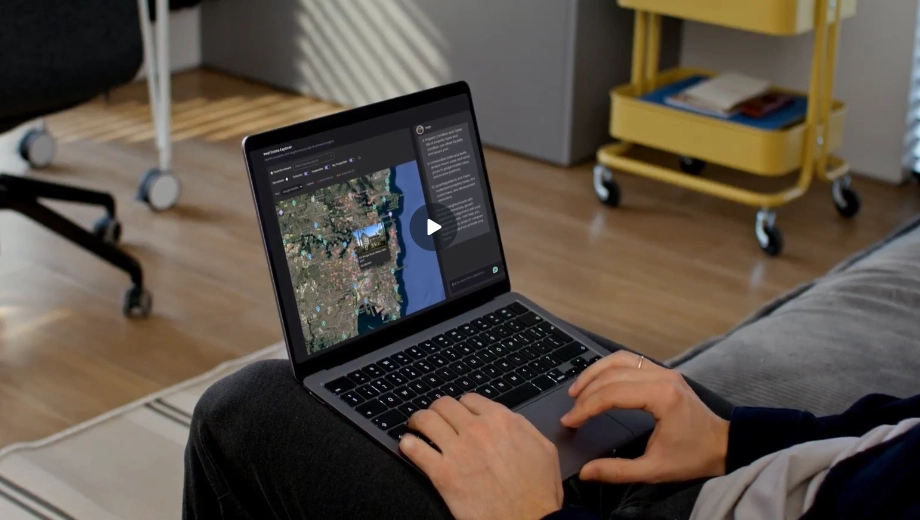
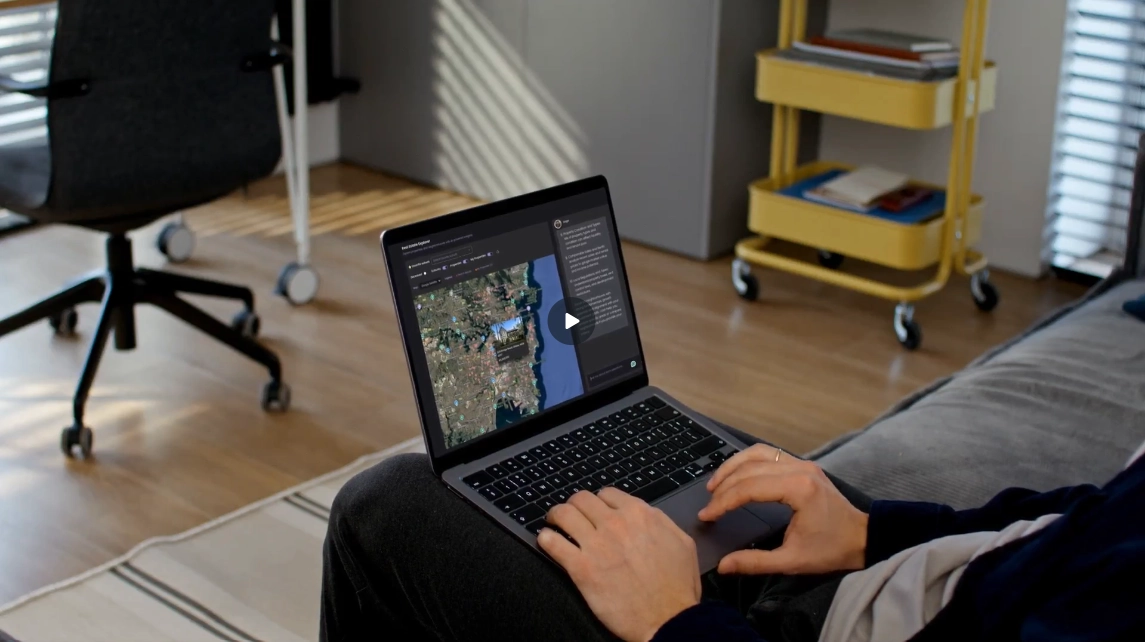
adjust video dimensions and loading attributes in index.html; update css for opacity and positioning tweaks; replace thumbnail images for better quality

diff --git a/index.html b/index.html
@@ -388,13 +388,16 @@
             playsinline
             poster="./assets/img/browsing-the-app-thumbnail-one.webp"
             preload="metadata"
-            width="920px"
-            height="520px"
+            width="919.97px"
+            height="509.16px"
+            loading="lazy"
           >
             <!-- Optimized video source -->
             <source
               src="./assets/videos/browsing-the-app-demo-one.mp4"
               type="video/mp4"
+              width="919.97px"
+              height="509.16px"
             />
           </video>
 
@@ -645,11 +648,16 @@
             playsinline
             poster="./assets/img/browsing-the-app-thumbnail-two.webp"
             preload="metadata"
+            width="999.98px"
+            height="553.44px"
+            loading="lazy"
           >
             <!-- Optimized video source -->
             <source
               src="./assets/videos/browsing-the-app-demo-two.mp4"
               type="video/mp4"
+              width="999.98px"
+              height="553.44px"
             />
           </video>
 

diff --git a/assets/css/home-page.css b/assets/css/home-page.css
@@ -79,9 +79,10 @@
         width: 100%;
         height: 100%;
         background-color: var(--color-primary);
-        opacity: 0.3;
+        opacity: 0.2;
         z-index: 1;
         border-radius: 20px;
+        pointer-events: none;
       }
     }
 
@@ -89,10 +90,10 @@
       position: absolute;
       top: 20px;
       left: auto;
-      right: 20px;
+      right: 0;
       max-width: 500px;
-      font-size: 2.2rem;
-      line-height: 1.1;
+      font-size: 2rem;
+      line-height: 1;
       color: var(--color-white);
       z-index: 2;
     }
@@ -113,6 +114,7 @@
         opacity: 0.3;
         z-index: 1;
         border-radius: 20px;
+        pointer-events: none;
       }
     }
 
